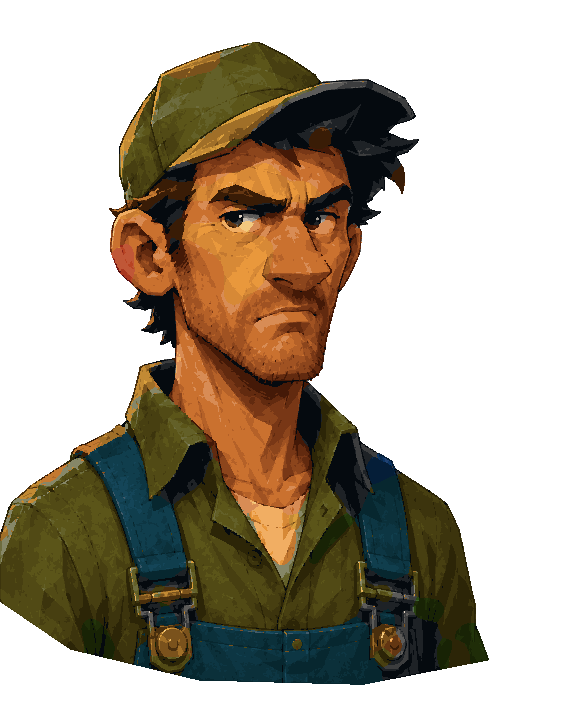
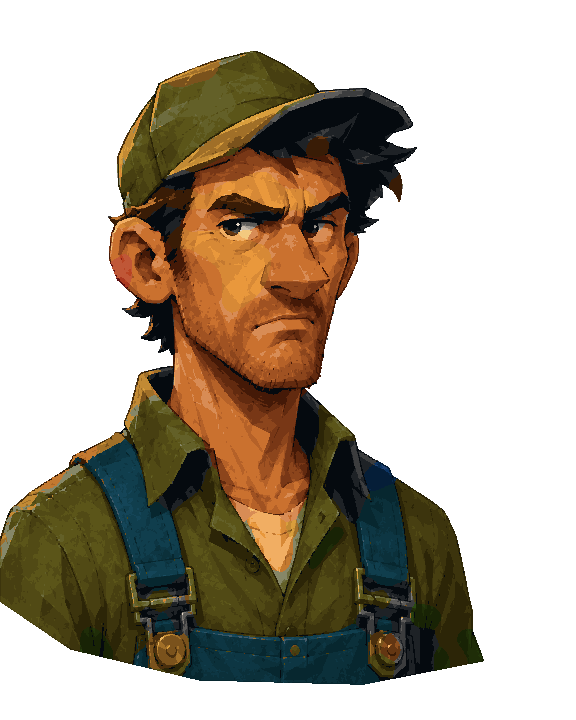
Cinq têtes de plus pour le fermier, et chaque phrase la sienne
Cinq nouvelles planches du héros — dubitatif, inquiet, serein, songeur,
projette — fabriquées par la chaîne des portraits aux deux palettes, alignées
sur les sept d'avant. Chaque marche du tutoriel et chaque leçon nomme
maintenant la tête qu'il fait en le disant ; sans elle, l'ancienne règle
vaut. Le banc des visages compte douze humeurs.

Claude-Session: https://claude.ai/code/session_0181E8ytq3ysQLCrUhRNTjLi

diff --git a/index.html b/index.html
@@ -4249,8 +4249,15 @@ const PORTRAITS = {
      fabriqué à 288 et fait agrandir de moitié à l'affichage, seule de ses planches à
      être floue. La chaîne `outils/portraits` lit les humeurs dans sa table au lieu de les
      tenir en dur, et fabrique donc les sept à 576. */
+  /* ET CINQ DE PLUS, POUR QU'IL NE FASSE PAS LA MÊME TÊTE À CHAQUE PHRASE. Le joueur :
+     « lorsqu'il parle il a toujours la même expression ; change un peu quand il est en
+     train de réfléchir, ou de se projeter — il va falloir que je fasse ça. » Un regard en
+     coin qui doute (dubitatif), les sourcils qui se soucient (inquiet), un demi-sourire
+     (serein), la tête tournée qui rumine (songeur), les yeux au ciel qui font des plans
+     (projette). Chaque marche du tutoriel et chaque leçon nomme la sienne. */
   'Moi': {r:'fermier', h:['perplexe', 'bravo', 'pensif', 'surpris', 'rire',
-                          'contrarie', 'abattu']}
+                          'contrarie', 'abattu',
+                          'dubitatif', 'inquiet', 'serein', 'songeur', 'projette']}
 };
 const HUMEURS = ['neutre', 'bravo', 'refus'];
 /* ET UN COMMERCE PEUT N'EN AVOIR QU'UNE. Le comptoir agricole ne donne pas de mission et
@@ -21632,15 +21639,17 @@ const CROISEMENT = {x:PATHS_V[1], z:PATHS_H[0]};
 const auCroisement = ()=> !!MACHINES[cur] && MACHINES[cur].key === 'pickup'
   && Math.hypot(MACHINES[cur].v.pos.x - CROISEMENT.x, MACHINES[cur].v.pos.z - CROISEMENT.z) < 8;
 const TUTO = [
-  {cle:'labour', ou:'champ', engin:'t1', outil:'labour', titre:'PRÉPARER LA TERRE',
+  /* `humeur` : la tête qu'il fait en le disant — voir `PORTRAITS['Moi']`. Sans elle, il
+     cherche (pensif), et sourit à la dernière marche (bravo). */
+  {cle:'labour', ou:'champ', engin:'t1', outil:'labour', titre:'PRÉPARER LA TERRE', humeur:'songeur',
    txt:'PRÉPARER LA TERRE – Première leçon : on ne sème pas directement dans l’herbe. '
      + 'La charrue est au parc. Il faut l’atteler au tracteur.',
    fait:()=> partParcelle('labour') >= PART_ETAPE},
-  {cle:'semis', ou:'champ', engin:'t1', outil:'semis', titre:'SEMER DU BLÉ',
+  {cle:'semis', ou:'champ', engin:'t1', outil:'semis', titre:'SEMER DU BLÉ', humeur:'projette',
    txt:'SEMER DU BLÉ – La terre est prête. Maintenant, il faudrait peut-être y mettre '
      + 'quelque chose. Le semoir est au parc.',
    fait:()=> partParcelle('semis') >= PART_ETAPE},
-  {cle:'pousse', ou:'champ', titre:'LAISSER POUSSER',
+  {cle:'pousse', ou:'champ', titre:'LAISSER POUSSER', humeur:'dubitatif',
    txt:'LAISSER POUSSER – Et maintenant… on attend. Je découvre que l’agriculture demande '
      + 'beaucoup de patience.',
    /* CENT POUR CENT, ET PAS 98 : LA POUSSE N'EST PAS UNE PASSE DE TRACTEUR. Les 98 % de
@@ -21666,7 +21675,7 @@ const TUTO = [
      se lève dès que la trémie est pleine et s'éteint au premier déchargement. Une marche
      de tutoriel dit où l'on en est dans le tour ; une leçon dit ce qu'on ne pouvait pas
      deviner. Ce n'était pas la même chose. */
-  {cle:'recolte', ou:'champ', engin:'moisson', titre:'PREMIÈRE RÉCOLTE',
+  {cle:'recolte', ou:'champ', engin:'moisson', titre:'PREMIÈRE RÉCOLTE', humeur:'surpris',
    txt:'PREMIÈRE RÉCOLTE – Ça y est. Le blé est mûr. La grosse machine avec la barre '
      + 'devant ? C’est notre moissonneuse.',
    fait:()=> bleRentre() >= 30 && partParcelle('moisson') >= PART_ETAPE},
@@ -21686,7 +21695,7 @@ const TUTO = [
      ranger la moissonneuse avec le dernier andain encore dans le ventre, et le blé de la
      fin du champ restait à bord. La marche demande donc ce qu'elle dit : DÉCHARGE — la
      trémie vide, et du blé dans la tour. */
-  {cle:'silo', ou:'silo', engin:'moisson', titre:'VIDER AU SILO',
+  {cle:'silo', ou:'silo', engin:'moisson', titre:'VIDER AU SILO', humeur:'projette',
    txt:'VIDER AU SILO – La moissonneuse ne va pas garder le grain éternellement. '
      + 'Direction le silo.',
    quoi:'vider', prod:'ble',
@@ -21707,7 +21716,7 @@ const TUTO = [
      constructeur du véhicule, et c'est par lui que le moteur de chantier renvoie un engin
      au repos une fois son travail fini — au même rayon de six mètres. On réutilise donc
      le nombre du jeu plutôt que d'en écrire un second qui pourrait diverger. */
-  {cle:'parking', ou:'parc', engin:'moisson', titre:'RANGER LA MOISSONNEUSE',
+  {cle:'parking', ou:'parc', engin:'moisson', titre:'RANGER LA MOISSONNEUSE', humeur:'serein',
    txt:'RANGER LA MOISSONNEUSE – Première récolte terminée. On va déjà essayer de rendre '
      + 'la machine entière.',
    fait:()=>{ const M = MACHINES.find((x)=> x.key === 'moisson');
@@ -21725,7 +21734,7 @@ const TUTO = [
      fait battre la parcelle, puis la destination, puis LANCER (`guiderPlan`). Elle se
      solde au premier chantier posé : le champ qu'on vient de moissonner est en chaume,
      c'est exactement le moment où l'on a envie que quelqu'un d'autre le relaboure. */
-  {cle:'auto', ou:null, bouton:'auto', fen:'plan', titre:'LANCER L’AUTOMATISATION',
+  {cle:'auto', ou:null, bouton:'auto', fen:'plan', titre:'LANCER L’AUTOMATISATION', humeur:'projette',
    txt:'LANCER L’AUTOMATISATION – Je ne vais pas tout conduire moi-même jusqu’à la fin '
      + 'de mes jours. Le bouton A lance l’automatisation : j’appuie dessus, je choisis ma '
      + 'parcelle sur la carte, et le tracteur se débrouille.',
@@ -21753,7 +21762,7 @@ const TUTO = [
      le pick-up, il ne faut pas forcément une indication comme quoi on va au village ; on
      prend le pick-up pour aller explorer les environs. » La marche se solde dès qu'on est
      dedans ; les deux secondes du téléphone ne courent plus ici mais au croisement. */
-  {cle:'pickup', ou:'parc', engin:'pickup', titre:'REPRENDRE LE PICK-UP',
+  {cle:'pickup', ou:'parc', engin:'pickup', titre:'REPRENDRE LE PICK-UP', humeur:'serein',
    txt:'REPRENDRE LE PICK-UP – Le grain est à l’abri, la machine est garée. Avant d’aller '
      + 'plus loin, j’irais bien voir à quoi ressemblent les environs. Le pick-up fera '
      + 'l’affaire.',
@@ -21763,7 +21772,7 @@ const TUTO = [
      ici » — et deux secondes plus tard le téléphone sonne à la ferme (voir `appelT` dans
      `updateCommandes`). La marche se solde à la sonnerie, pas à l'arrivée : la fenêtre
      de l'appel vient APRÈS celle de la découverte, dans cet ordre. */
-  {cle:'explorer', ou:'croisement', engin:'pickup', titre:'EXPLORER LES ENVIRONS',
+  {cle:'explorer', ou:'croisement', engin:'pickup', titre:'EXPLORER LES ENVIRONS', humeur:'pensif',
    txt:'EXPLORER LES ENVIRONS – Un tour de reconnaissance. Jusqu’au croisement, là-haut au '
      + 'milieu des parcelles, pour voir à quoi ressemble le coin.',
    fait:()=> CAMPAGNE.explore && appelT <= 0},
@@ -21796,6 +21805,7 @@ const TUTO = [
      franchie. C'était la seule façon de garder UNE table indicée — « des champs, jamais
      des lignes » — avec deux ordres de lecture. */
   {cle:'appel', engin:'pickup',
+   humeur:()=> MODE_LIBRE ? 'projette' : 'dubitatif',
    ou:   ()=> MODE_LIBRE ? 'silo' : 'ferme',
    titre:()=> MODE_LIBRE ? 'PRÉPARER UNE VENTE' : 'LE TÉLÉPHONE SONNE',
    txt:  ()=> MODE_LIBRE
@@ -21902,7 +21912,7 @@ const LECONS = [
    txt:'TRÉMIE PLEINE – Plus de place. Il faut vider le grain au silo avant de continuer.',
    quand:()=> hopper >= HOP_MAX - 0.5},
 
-  {cle:'gazole', ou:'gazole', tot:true, mur:true, nom:'CARBURANT', titre:'LA JAUGE BAISSE',
+  {cle:'gazole', humeur:'inquiet', ou:'gazole', tot:true, mur:true, nom:'CARBURANT', titre:'LA JAUGE BAISSE',
    txt:'LA JAUGE BAISSE – Il serait peut-être temps de penser au plein avant de finir à '
      + 'pied. La citerne est dans la cour.',
    quand:()=> CARBU.cuve > 1 && MACHINES.some((m)=> !m.verrou && m.v.fuel < m.v.resMax*0.4)},
@@ -21910,7 +21920,7 @@ const LECONS = [
   /* ET ELLE SE LÈVE QUAND UNE CUVE SE VIDE, en part de sa contenance et non en kilos :
      « quand elles sont quasiment vides, on doit retourner au comptoir agricole pour les
      re-remplir ». Un dixième pour les deux cuves de la cour, un quart pour le gazole. */
-  {cle:'courses', ou:'Comptoir agricole', fen:'comptoir', onglet:'semences',
+  {cle:'courses', humeur:'projette', ou:'Comptoir agricole', fen:'comptoir', onglet:'semences',
    nom:'COMPTOIR AGRICOLE', titre:'LE COMPTOIR AGRICOLE',
    txt:'LE COMPTOIR AGRICOLE – Graines, engrais, carburant… quand les réserves de la ferme '
      + 'baissent, c’est ici qu’on se ravitaille.',
@@ -21920,7 +21930,7 @@ const LECONS = [
                   || (CARBU.cuveMax > 0 && CARBU.cuve < CARBU.cuveMax*0.25))},
 
   /* --- CE QU'ON ACHÈTE, ET QUI CHANGE LA FERME --- */
-  {cle:'garage', ou:'Garage', fen:'achat', onglet:'engins',
+  {cle:'garage', humeur:'projette', ou:'Garage', fen:'achat', onglet:'engins',
    // La moins chère de la vitrine : c'est celle qu'on prend en premier, et c'est l'ordre
    // dans lequel `articlesAVendre` les range déjà.
    art:()=>{ const A = articlesAVendre()[0]; return A ? A.cle : null; },
@@ -21929,7 +21939,7 @@ const LECONS = [
      + 'forcément passer par ici.',
    quand:()=> articlesAVendre().some((A)=> money >= A.prix)},
 
-  {cle:'amelio', ou:'Garage', fen:'amelio', onglet:'engins',
+  {cle:'amelio', humeur:'songeur', ou:'Garage', fen:'amelio', onglet:'engins',
    art:()=> ameliorationsPossibles()
               .filter((c)=> money >= prixCranSuivant(c, niveauMateriel(c)))
               .sort((a, b)=> prixCranSuivant(a, niveauMateriel(a))
@@ -21940,7 +21950,7 @@ const LECONS = [
    quand:()=> ameliorationsPossibles().some((c)=>
                 money >= prixCranSuivant(c, niveauMateriel(c)))},
 
-  {cle:'culture', ou:'Comptoir agricole', fen:'comptoir', onglet:'semences',
+  {cle:'culture', humeur:'serein', ou:'Comptoir agricole', fen:'comptoir', onglet:'semences',
    art:()=>{ const c = CROPS.filter((x)=> x.verrou && auNiveau(niveauDe('cultures', x.cle))
                                        && money >= x.cout)
                            .sort((a, b)=> a.cout - b.cout)[0];
@@ -21951,33 +21961,33 @@ const LECONS = [
    quand:()=> CROPS.some((c)=> c.verrou && auNiveau(niveauDe('cultures', c.cle))
                                         && money >= c.cout)},
 
-  {cle:'semoirCulture', ou:null, nom:'CHANGER DE CULTURE', titre:'CHOISIR LA SEMENCE',
+  {cle:'semoirCulture', humeur:'songeur', ou:null, nom:'CHANGER DE CULTURE', titre:'CHOISIR LA SEMENCE',
    txt:'CHOISIR LA SEMENCE – Le semoir sait maintenant planter plusieurs cultures. Le bouton '
      + 'de culture permet de choisir laquelle.',
    quand:()=>{ const T = toolOf(MACHINES[cur]);
      return !!(T && T.seme && CROPS.filter((c)=> !c.verrou).length >= 2); }},
 
-  {cle:'parcelle', ou:'parcelle', nom:'ACHETER UNE PARCELLE', titre:'UNE TERRE À VENDRE',
+  {cle:'parcelle', humeur:'projette', ou:'parcelle', nom:'ACHETER UNE PARCELLE', titre:'UNE TERRE À VENDRE',
    txt:'UNE TERRE À VENDRE – Une parcelle voisine est disponible. Arrêtez-vous dessus pour '
      + 'connaître son prix.',
    quand:()=>{ if(!peutAcheterParcelle()) return false;
      return PARCELS.some((q)=> !q.owned && q.signPos && money >= q.price); }},
 
   /* --- LE PLAN DE TRAVAIL : LA MACHINE TRAVAILLE SEULE --- */
-  {cle:'plan', ou:null, nom:'PLAN DE TRAVAIL', titre:'LE PLAN DE TRAVAIL',
+  {cle:'plan', humeur:'serein', ou:null, nom:'PLAN DE TRAVAIL', titre:'LE PLAN DE TRAVAIL',
    txt:'LE PLAN DE TRAVAIL – On n’est pas obligé de tout conduire soi-même. Depuis la '
      + 'carte, une machine peut être envoyée travailler seule sur une parcelle.',
    quand:()=> TOOLS.some((T)=> !T.verrou && T.from)
               && PARCELS.some((q)=> q.owned && !q.pature)},
 
-  {cle:'silo', ou:'silo', fen:'stockage', onglet:'agrandir',
+  {cle:'silo', humeur:'inquiet', ou:'silo', fen:'stockage', onglet:'agrandir',
    nom:'SILO', titre:'LE SILO SE REMPLIT',
    txt:'LE SILO SE REMPLIT – Il commence à manquer de place. Sa capacité peut être '
      + 'augmentée depuis le menu Stockage.',
    quand:()=> siloTotal() > siloMax()*0.85 && !!coutSilo() && money >= coutSilo()},
 
   /* --- L'ATELIER : LA MATIÈRE DEVIENT UN PRODUIT --- */
-  {cle:'metier', ou:'atelier', fen:'production', onglet:'metiers',
+  {cle:'metier', humeur:'projette', ou:'atelier', fen:'production', onglet:'metiers',
    art:()=>{ const M = ATELIER_MODULES.filter((X)=> !atelierA(X.cle)
                          && auNiveau(niveauDe('modules', X.cle)) && money >= X.prix)
                        .sort((a, b)=> a.prix - b.prix)[0];
@@ -21988,20 +21998,20 @@ const LECONS = [
    quand:()=> ATELIER_MODULES.some((M)=> !atelierA(M.cle)
                 && auNiveau(niveauDe('modules', M.cle)) && money >= M.prix)},
 
-  {cle:'produire', ou:'atelier', fen:'production', onglet:'produire',
+  {cle:'produire', humeur:'serein', ou:'atelier', fen:'production', onglet:'produire',
    nom:'LANCER UNE PRODUCTION', titre:'LANCER UN LOT',
    txt:'LANCER UN LOT – La matière est prête. Choisissez une recette et lancez la '
      + 'production depuis l’atelier.',
    quand:()=> HALLE.modules.length > 0 && !HALLE.file.length
               && ATELIER_MODULES.some((M)=> atelierA(M.cle) && potentiel(M.cle).sortie >= 1)},
 
-  {cle:'entrepot', ou:'entrepot', nom:'ENTREPÔT', titre:'L’ENTREPÔT',
+  {cle:'entrepot', humeur:'songeur', ou:'entrepot', nom:'ENTREPÔT', titre:'L’ENTREPÔT',
    txt:'L’ENTREPÔT – Le silo garde les récoltes en vrac. L’entrepôt accueille les produits '
      + 'transformés.',
    quand:()=>{ const T = caisseDe(MACHINES[cur]);
      return !!(ENTREPOT.quai && T && naturesDe(T).some((k)=> entrepotAccepte(k))); }},
 
-  {cle:'reglages', ou:'atelier', fen:'production', onglet:'reglages',
+  {cle:'reglages', humeur:'songeur', ou:'atelier', fen:'production', onglet:'reglages',
    nom:'RÉGLAGES DE L’ATELIER', titre:'AMÉLIORER L’ATELIER',
    txt:'AMÉLIORER L’ATELIER – Des lots plus gros, une production plus rapide ou davantage '
      + 'de commandes en attente. À vous de choisir ce qui vous ralentit le plus.',
@@ -22009,31 +22019,31 @@ const LECONS = [
               && ['capa', 'vite', 'queue'].some((q)=> !!coutUp(q) && money >= coutUp(q))},
 
   /* --- LES BÊTES --- */
-  {cle:'elevage', ou:'champ', nom:'ÉLEVAGE', titre:'INSTALLER UN ÉLEVAGE',
+  {cle:'elevage', humeur:'projette', ou:'champ', nom:'ÉLEVAGE', titre:'INSTALLER UN ÉLEVAGE',
    txt:'INSTALLER UN ÉLEVAGE – Une parcelle libre peut devenir un enclos. Après ça, il '
      + 'faudra encore acheter les animaux… et les nourrir. Évidemment.',
    quand:()=> PATURES.length === 0
               && ESP_CLES.some((c, k)=> ouvert('especes', c) && money >= prixPature(c))
               && PARCELS.some((q)=> q.owned && !q.pature)},
 
-  {cle:'bete', ou:'pature', nom:'ACHETER UN ANIMAL', titre:'PEUPLER L’ENCLOS',
+  {cle:'bete', humeur:'serein', ou:'pature', nom:'ACHETER UN ANIMAL', titre:'PEUPLER L’ENCLOS',
    txt:'PEUPLER L’ENCLOS – L’enclos est prêt. Approchez-vous et utilisez INTERAGIR pour '
      + 'acheter vos premiers animaux.',
    quand:()=> PATURES.some((P)=> P.betes.length < P.places
                 && money >= (ESPECES[P.espece] || ESPECES.vache).prix)},
 
-  {cle:'mangeoire', ou:'pature', nom:'MANGEOIRE', titre:'ILS ONT FAIM',
+  {cle:'mangeoire', humeur:'inquiet', ou:'pature', nom:'MANGEOIRE', titre:'ILS ONT FAIM',
    txt:'ILS ONT FAIM – Pas de nourriture, pas de production. Chargez de l’aliment et '
      + 'remplissez la mangeoire.',
    quand:()=> PATURES.some((P)=> P.betes.length > 0 && P.grain < P.grainMax*0.35)},
 
-  {cle:'traire', ou:'pature', nom:'PRODUCTION ANIMALE', titre:'PRODUCTION À RÉCUPÉRER',
+  {cle:'traire', humeur:'serein', ou:'pature', nom:'PRODUCTION ANIMALE', titre:'PRODUCTION À RÉCUPÉRER',
    txt:'PRODUCTION À RÉCUPÉRER – Il y a quelque chose à récupérer dans l’élevage. Revenez '
      + 'avec un véhicule adapté et utilisez INTERAGIR.',
    quand:()=> PATURES.some((P)=> P.produit > 0.5 || P.produit2 > 0.5)},
 
   /* --- ET LE VILLAGE, QUI FINIT PAR PROPOSER SES PROPRES AFFAIRES --- */
-  {cle:'contrat', ou:null, nom:'CONTRATS', titre:'UN CONTRAT DISPONIBLE',
+  {cle:'contrat', humeur:'dubitatif', ou:null, nom:'CONTRATS', titre:'UN CONTRAT DISPONIBLE',
    txt:'UN CONTRAT DISPONIBLE – Un commerce cherche un fournisseur. Sa pastille bleue '
      + 'indique qu’un contrat est disponible.',
    quand:()=> contratsOuverts() && SITES.some((S)=> !!S.offre)}
@@ -22164,7 +22174,7 @@ function veillerLecons(dt){
      t'arrête ». Les faire porter par le même drapeau tiendrait tant que la coïncidence
      tient, et mentirait le jour où l'on ajoutera un mur tardif. */
   annoncerFenetre({titre:L.titre, sous:L.txt.split(' – ').slice(1).join(' – ') || L.txt,
-    etape:true, duree:5.5, face:{nom:'Moi', humeur:L.mur ? 'contrarie' : 'surpris'},
+    etape:true, duree:5.5, face:{nom:'Moi', humeur:L.humeur || (L.mur ? 'contrarie' : 'surpris')},
     suite:P ? 'La flèche bleue du bord mène à ' + P.lieu
             : 'Le bouton bat en jaune tant que ce n’est pas fait'});
 }
@@ -22404,7 +22414,7 @@ function annoncerEtape(E){
   const L = listeEtapes() || [];
   const dernier = L.length && L[L.length - 1] === E;
   annoncerFenetre({titre:champEtape(E, 'titre'), sous:detail || txt || '', etape:true,
-                   face:{nom:'Moi', humeur:dernier ? 'bravo' : 'pensif'},
+                   face:{nom:'Moi', humeur:dernier ? 'bravo' : (champEtape(E, 'humeur') || 'pensif')},
                    duree:5.0, suite:suite});
 }
 function veillerTuto(){
@@ -29781,10 +29791,10 @@ function lancerPartie(){
            'La maison, les terres… et un tracteur qui a probablement mon âge. »</i>',
       face:{nom:'Moi', humeur:'perplexe'},
       suite:'« Maintenant, il va falloir apprendre à s’en servir. »'});
-    annoncerFenetre({titre:'PREMIER JOUR',
+    annoncerFenetre({titre:'PREMIER JOUR',  // « il va falloir apprendre » : il se projette
       sous:'<i>« Apparemment, avant de récolter quoi que ce soit… ' +
            'il faut commencer par retourner la terre. »</i>',
-      face:{nom:'Moi', humeur:'pensif'},
+      face:{nom:'Moi', humeur:'projette'},
       suite:'Au boulot.'});
     annoncerEtape(TUTO[0]);
   }

diff --git a/outils/portraits/fabriquer.py b/outils/portraits/fabriquer.py
@@ -74,9 +74,15 @@ PX_JEU = 1.0/3.0
 # moitie a l affichage, seule de ses cinq planches a etre floue. Son calme porte donc son
 # propre nom — et `perplexe` decrit mieux ce qu il montre : un homme qui regarde de cote et
 # qui n est sur de rien.
+# ET CINQ DE PLUS, POUR QU IL NE FASSE PAS LA MEME TETE A CHAQUE PHRASE. Le joueur :
+# « lorsqu il parle il a toujours la meme expression ; change un peu quand il reflechit,
+# quand il se projette. » Un regard en coin (dubitatif), les sourcils inquiets (inquiet),
+# un demi-sourire (serein), la tete tournee qui rumine (songeur), les yeux au ciel qui
+# font des plans (projette). Memes 192 : toutes dans la fenetre d annonce.
 POSES  = {'neutre': 96, 'bravo': 192, 'refus': 192,
           'perplexe': 192, 'pensif': 192, 'surpris': 192, 'rire': 192,
-          'abattu': 192, 'contrarie': 192}
+          'abattu': 192, 'contrarie': 192,
+          'dubitatif': 192, 'inquiet': 192, 'serein': 192, 'songeur': 192, 'projette': 192}
 def largeurDe(h):
     """La planche d une humeur : sa boite divisee par la grille. 288 ou 576."""
     return int(round(POSES[h]/PX_JEU))

diff --git a/README.md b/README.md
@@ -13243,3 +13243,39 @@ battent aux mêmes endroits ; le fil de la première mission repasse (32 contrô
 Bancs : `plan` et `chantiers` sans échec ; la sonde du fourrage (7 contrôles : sans,
 choisi absent, choisi présent, auto, sauvegarde, défaut) ; `ecrans`, `hud`, `fenetres`,
 `lecons`, `campagne30`, `bandeau` relancés.
+
+## Cinq têtes de plus pour le fermier, et chaque phrase la sienne
+
+« Lorsqu'il parle, il a toujours la même expression. Change un peu quand il est en train de
+réfléchir, ou de se projeter — il va falloir que je fasse ça… — avec ces nouvelles
+expressions, pour qu'il y ait un peu de variété dans les dialogues. »
+
+**Cinq planches, cinq humeurs.** Le regard en coin qui doute (`dubitatif`), les sourcils
+qui se soucient (`inquiet`), le demi-sourire (`serein`), la tête tournée qui rumine
+(`songeur`), les yeux au ciel qui font des plans (`projette`). Douze humeurs au lieu de
+sept, toutes en 576 pour la fenêtre d'annonce, fabriquées par la même chaîne
+(`outils/portraits`, table `commerces.json`), aux deux palettes.
+
+**Et chaque moment nomme sa tête.** Une marche du tutoriel et une leçon portent maintenant
+`humeur` ; sans elle, l'ancienne règle vaut — il cherche (pensif), il sourit à la dernière
+marche (bravo), un mur le contrarie, une porte le surprend.
+
+| moment | tête |
+|---|---|
+| PREMIER JOUR — « il va falloir apprendre à s'en servir » | projette |
+| PRÉPARER LA TERRE · SEMER · VIDER AU SILO · LANCER L'AUTOMATISATION | songeur · projette · projette · projette |
+| LAISSER POUSSER — « beaucoup de patience » | dubitatif |
+| PREMIÈRE RÉCOLTE · EXPLORER LES ENVIRONS | surpris · pensif |
+| RANGER LA MOISSONNEUSE · REPRENDRE LE PICK-UP | serein · serein |
+| LE TÉLÉPHONE SONNE — « qui ça peut bien être ? » (mode libre : PRÉPARER UNE VENTE) | dubitatif (projette) |
+| leçons qui ouvrent une porte (comptoir, garage, parcelle, métier, élevage) | projette |
+| leçons qui installent quelque chose (culture, plan, production, bête, traite) | serein |
+| leçons qui demandent un réglage (améliorations, semence, entrepôt, réglages) | songeur |
+| leçons qui préviennent (jauge de gazole, silo qui se remplit, mangeoire) | inquiet |
+| un contrat disponible | dubitatif |
+| le semoir vide, la trémie pleine | contrarie |
+| la panne sèche | abattu |
+
+Le banc `visages` compte douze humeurs et relit la tête de la première marche (songeur) et
+celle d'une porte (projette).
+
